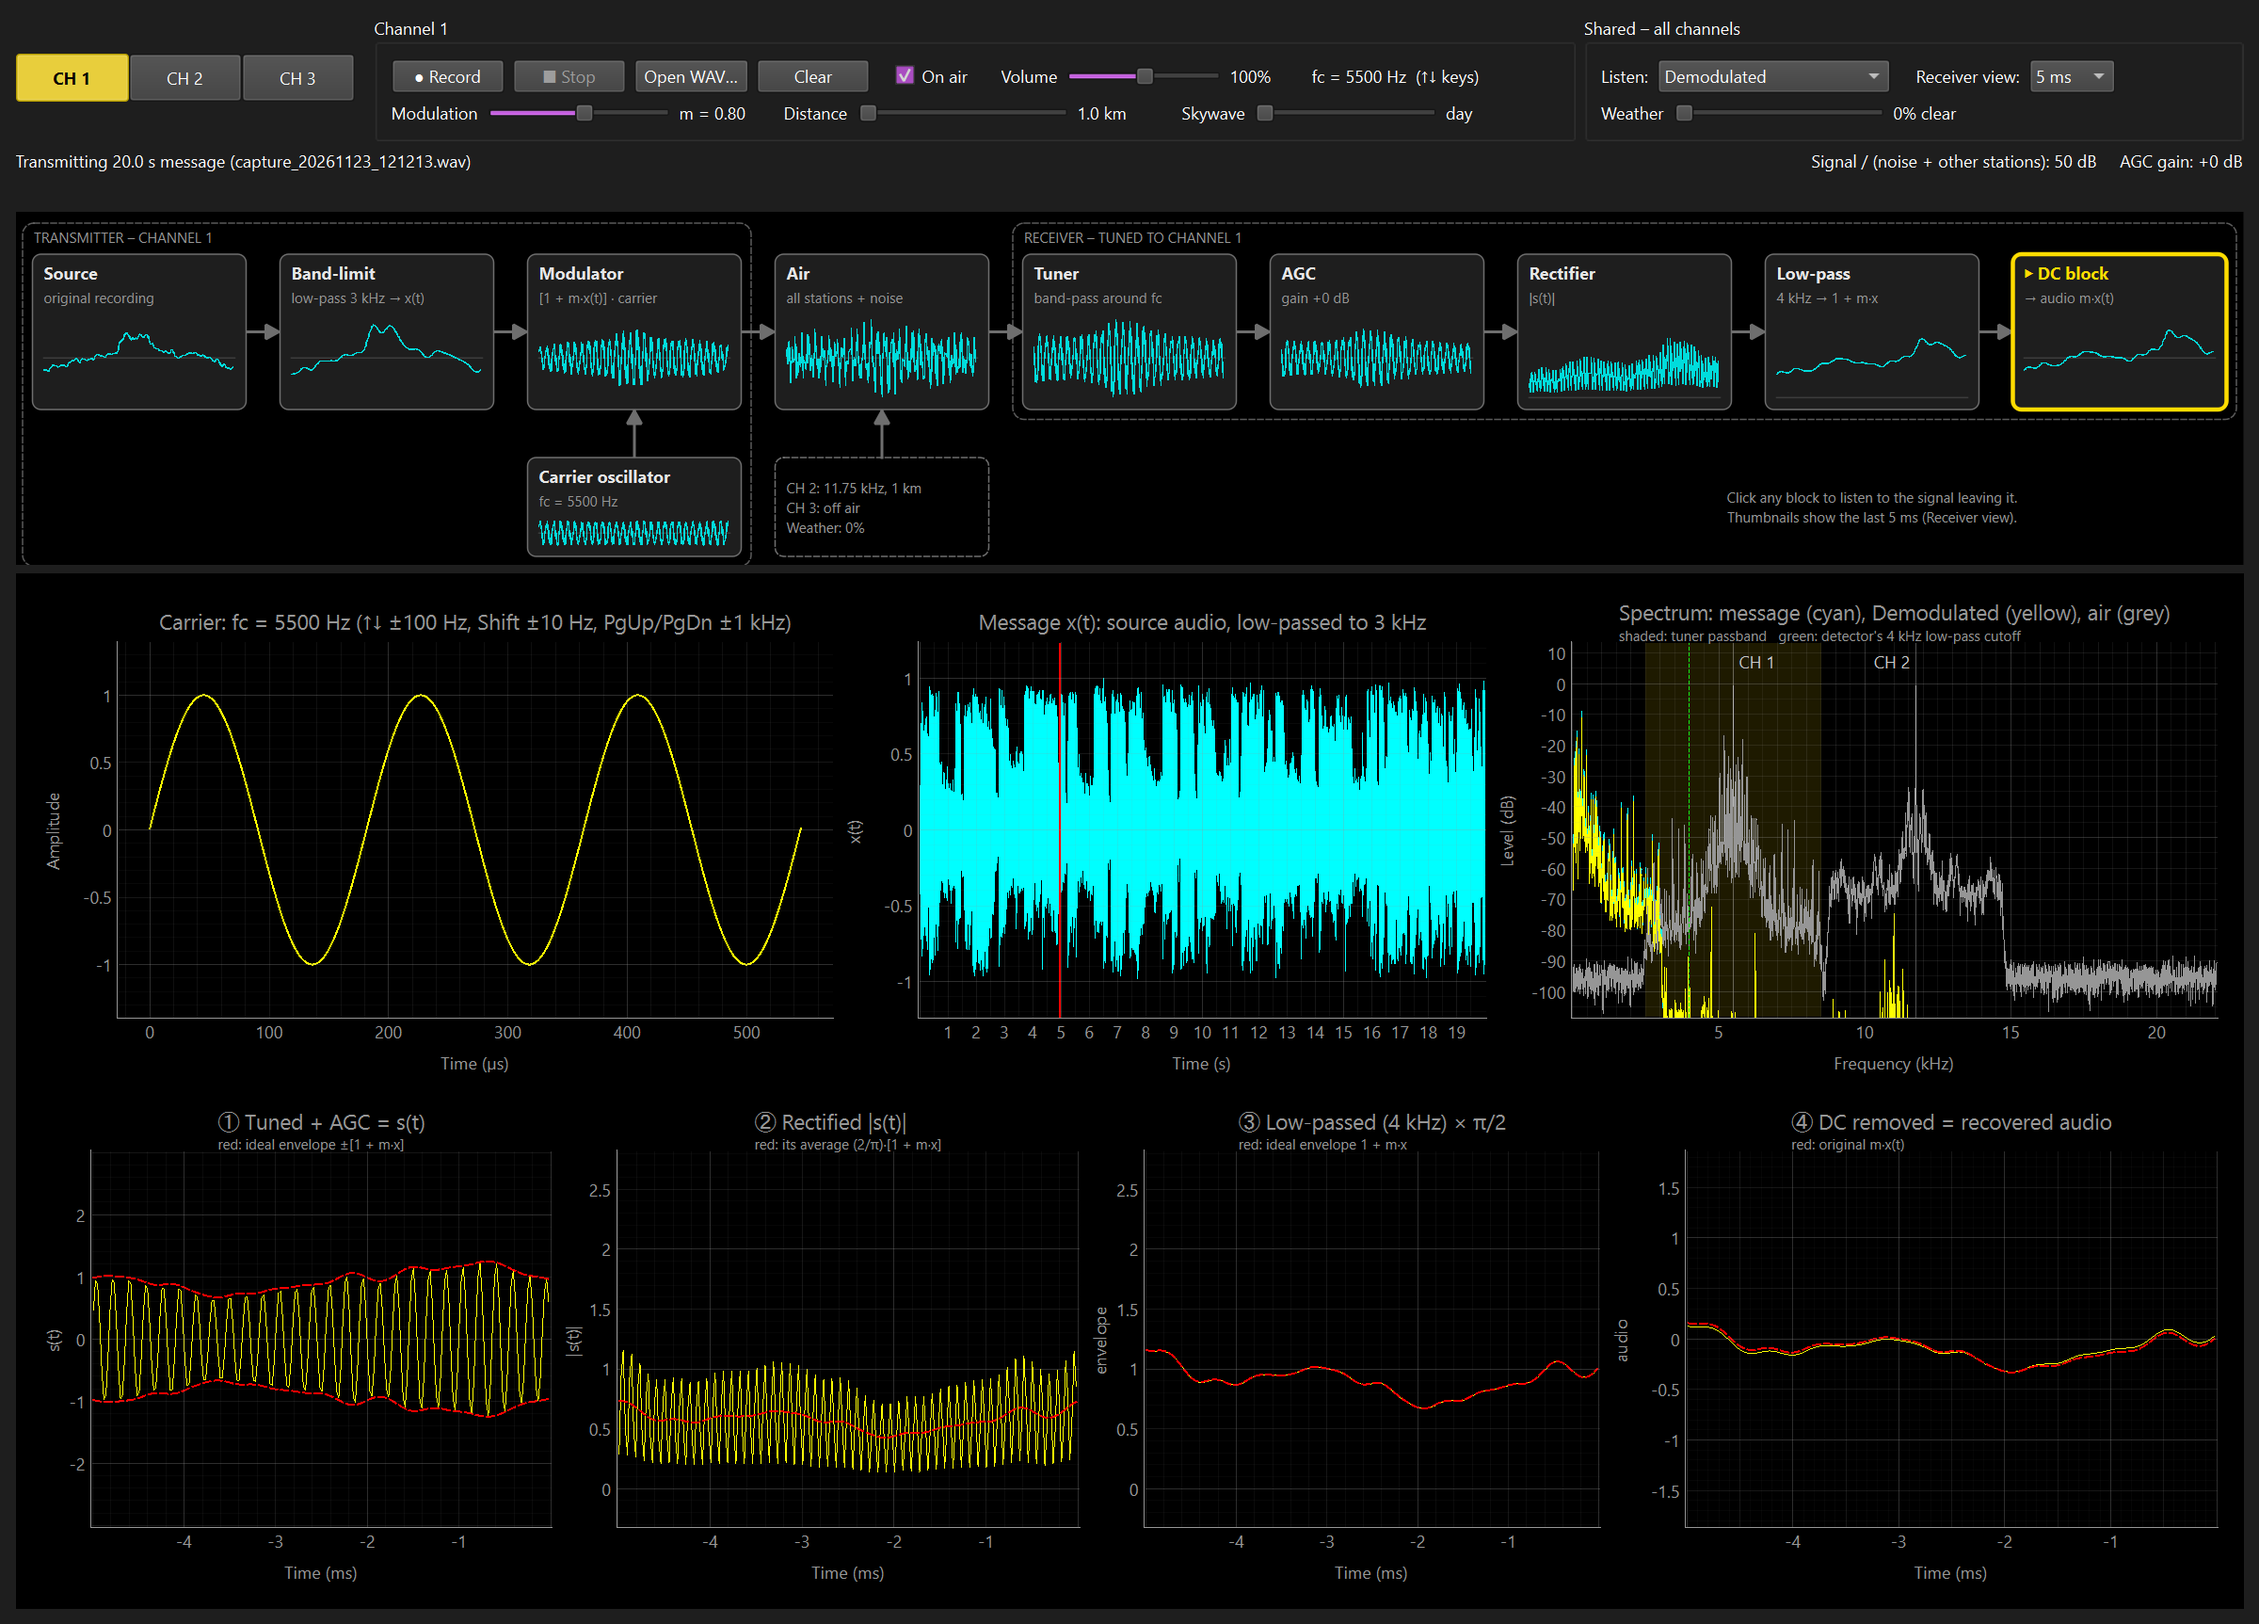
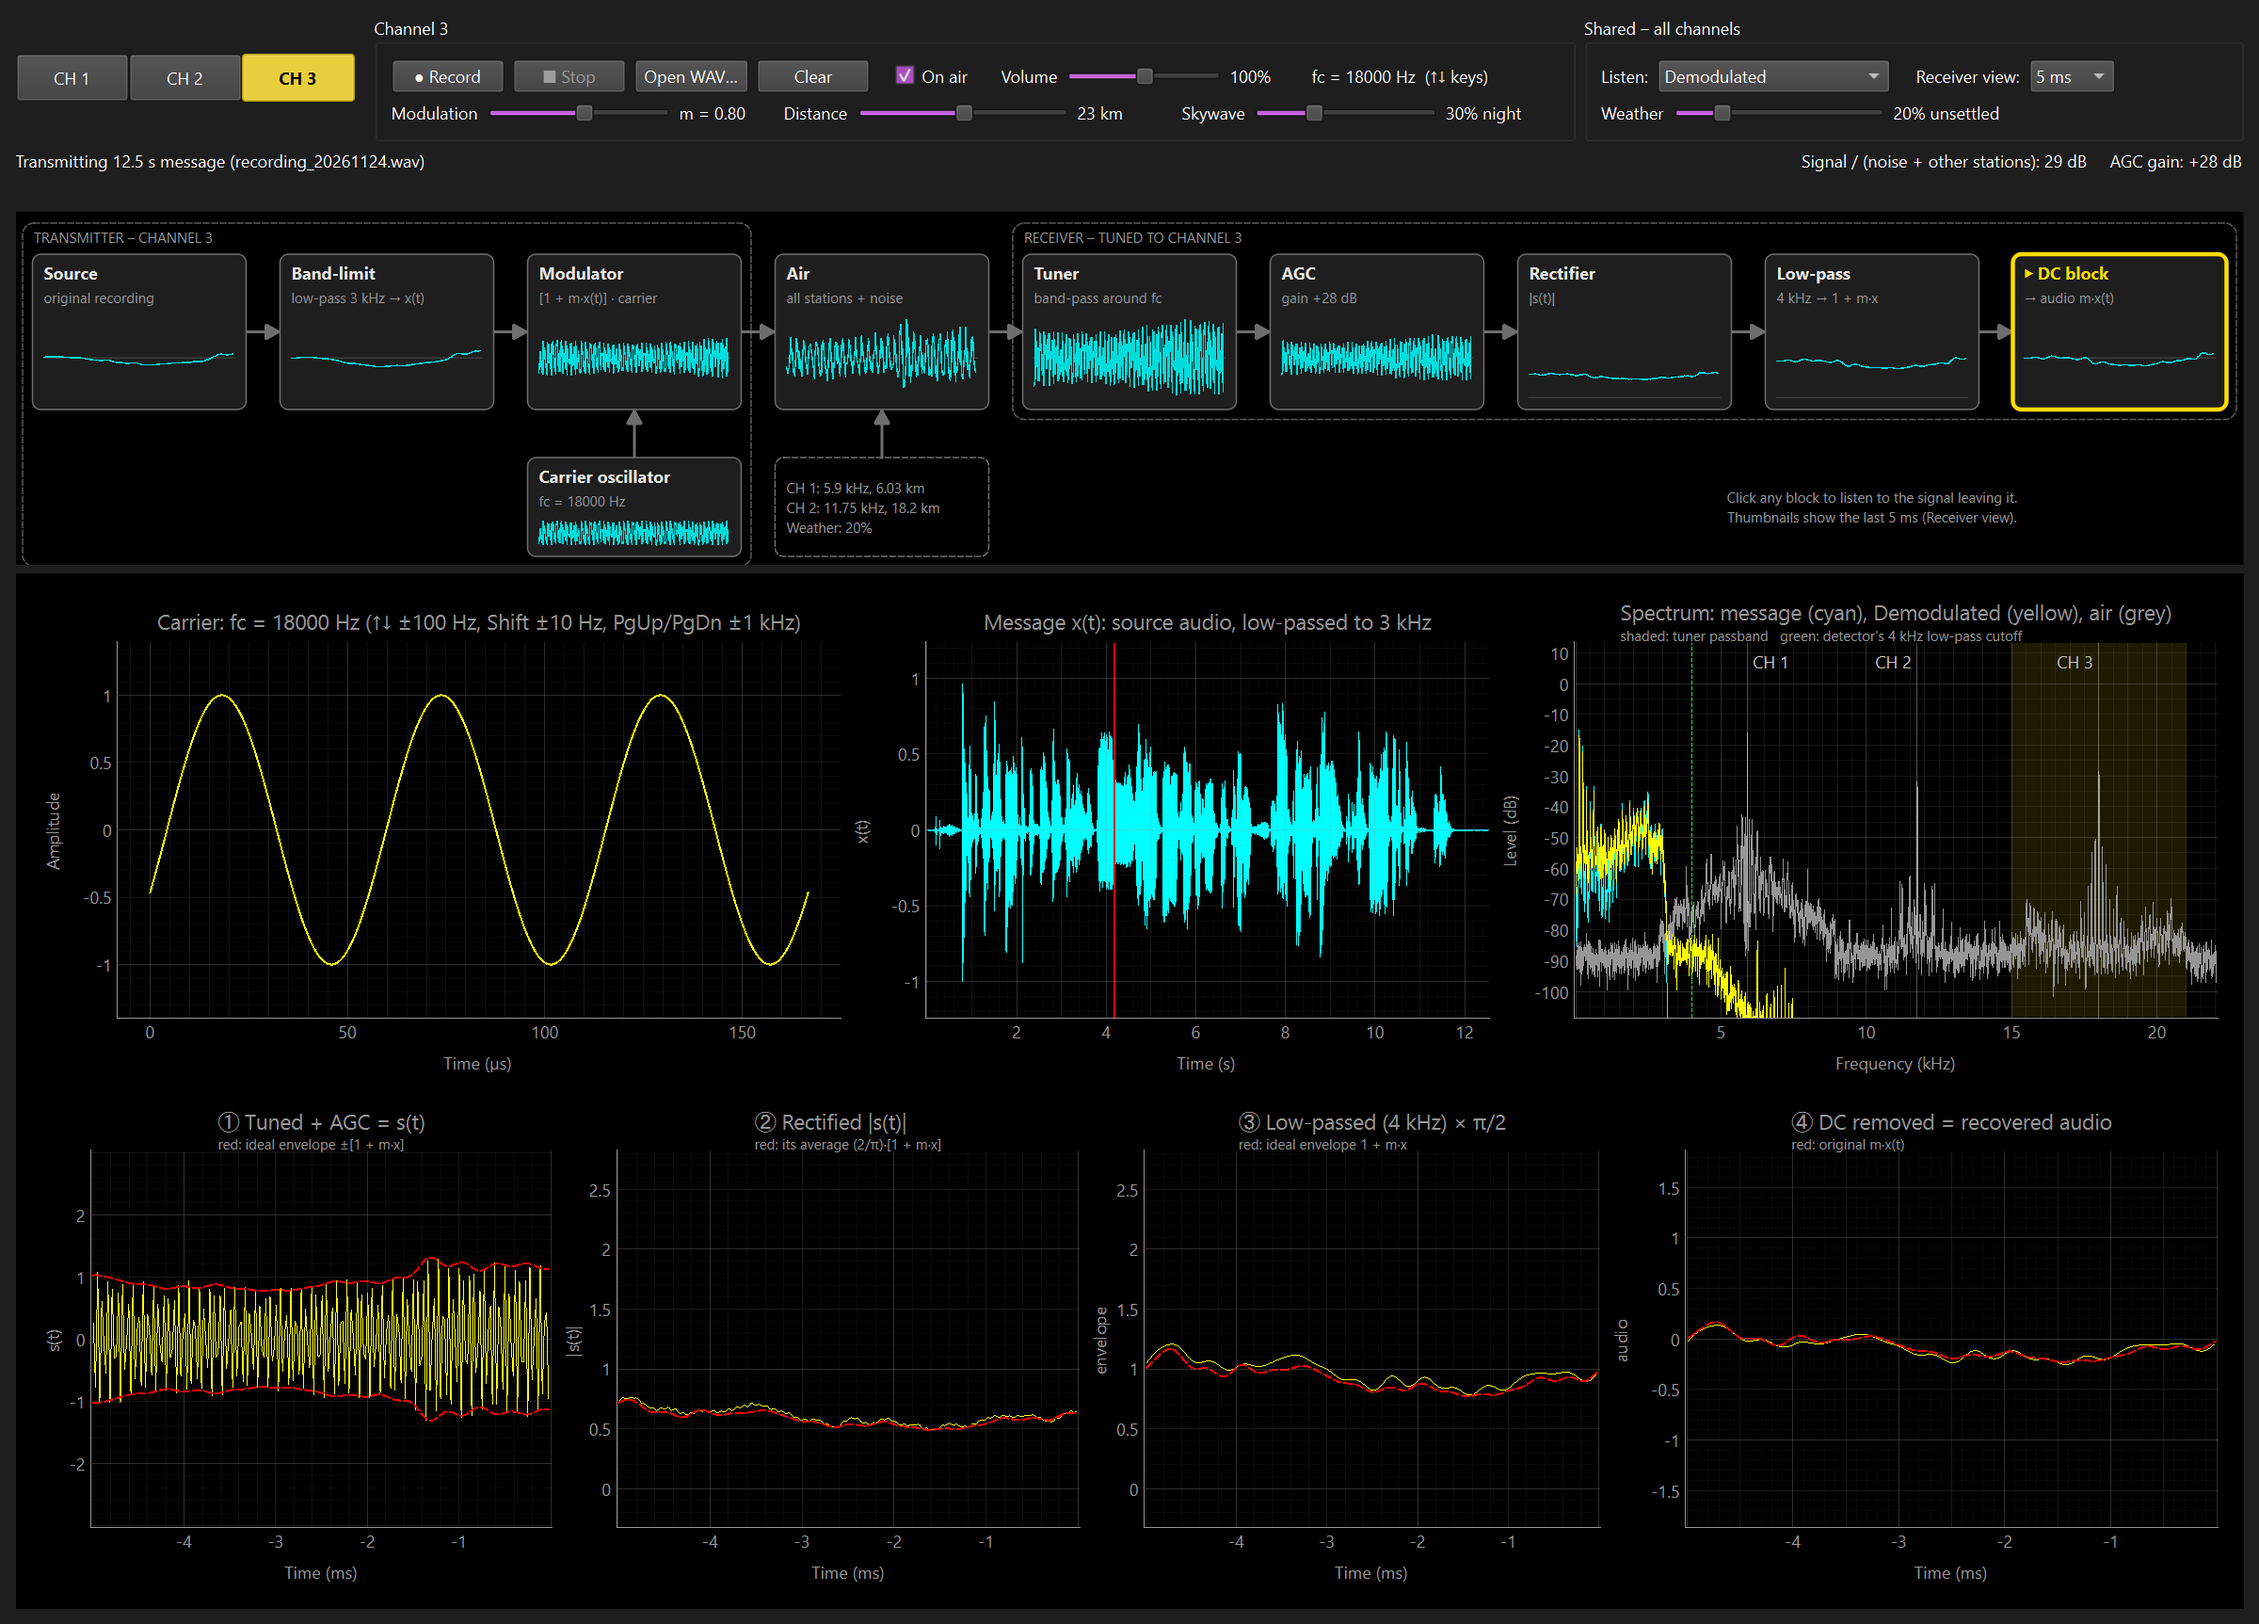
Update README and screenshot for the new launch defaults

diff --git a/README.md b/README.md
@@ -4,12 +4,12 @@ An interactive AM (amplitude modulation) radio simulator. Put up to three statio
 receiver to one of them, and see and hear the signal at every step from the
 original recording to the recovered audio.
 
-![AMSim with a WAV file on channel 1 and another on channel 2](docs/screenshot.png)
+![AMSim at launch, with three stations on the air and the receiver tuned to channel 3](docs/screenshot.png)
 
-*An example with two WAV files on the air, on channel 1 (5.5 kHz) and channel 2
-(11.75 kHz). The receiver is tuned to channel 1 and is playing the demodulated audio. Both stations
-are visible in the spectrum at the upper right; the shaded band is what the tuner
-lets through.*
+*AMSim as it starts, with the three sample recordings on the air on channel 1
+(5.9 kHz), channel 2 (11.75 kHz) and channel 3 (18 kHz). The receiver is tuned to
+channel 3 and is playing the demodulated audio. All three stations are visible in the
+spectrum at the upper right; the shaded band is what the tuner lets through.*
 
 ## Getting started
 
@@ -111,11 +111,12 @@ keyboard:
    the recovered audio in turn.
 2. **Overmodulate.** Raise **Modulation** above 1 and watch the envelope in plot ①
    cross zero.
-3. **Drown out a weak station.** Put channel 1 at 500 km and leave channel 2 at
-   1 km. The AGC turns up the weak signal, along with the noise and whatever leaks
-   in from channel 2.
-4. **Make stations collide.** Move one carrier to within 6 kHz of another. Their
-   sidebands overlap and the tuner can't separate them.
+3. **Drown out a weak station.** Put channel 1 at 500 km and channel 2 at 1 km. The
+   AGC turns up the weak signal, along with the noise and whatever leaks in from
+   channel 2.
+4. **Make stations collide.** Channels 1 and 2 already overlap slightly at launch.
+   Move their carriers closer together and the tuner can't separate them. Move channel
+   1 down to 5.5 kHz to clear the overlap.
 5. **Listen through a storm.** Raise **Weather**, then add **Skywave** for
    night-time fading.
 
